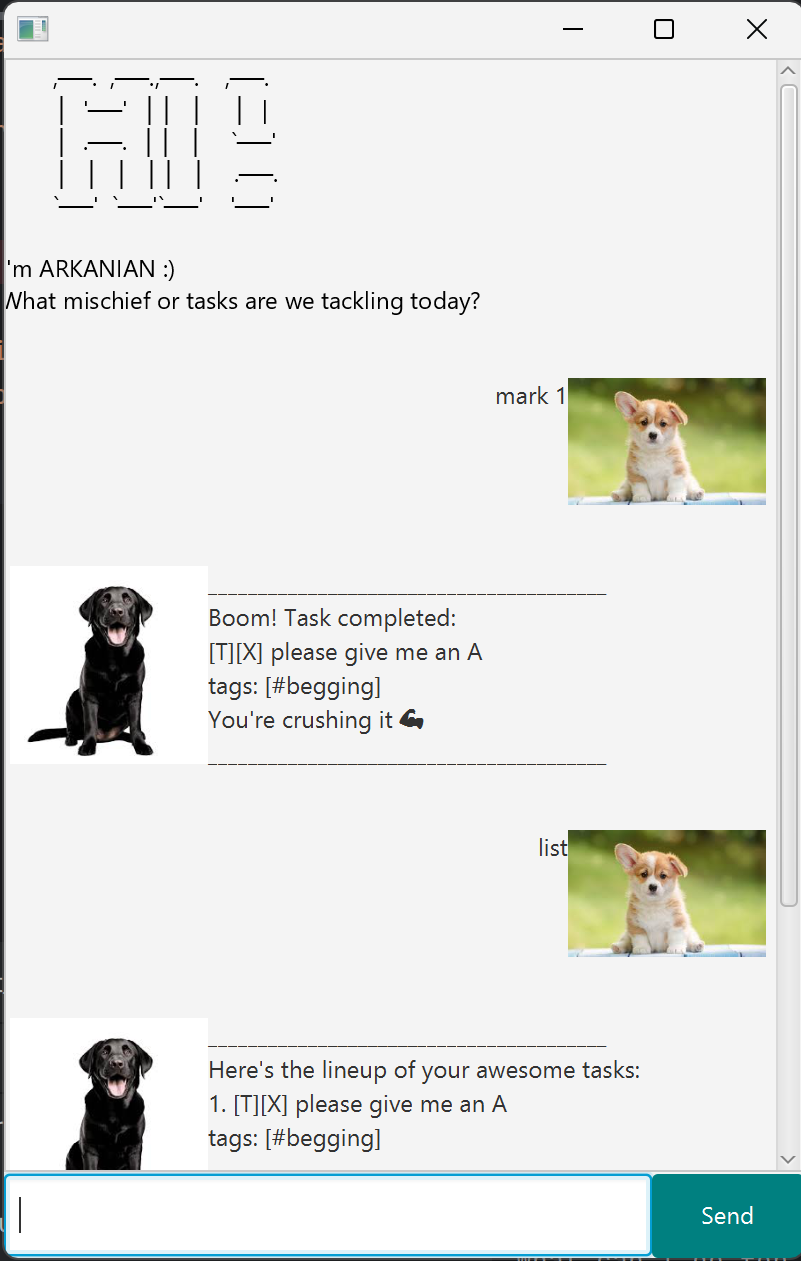
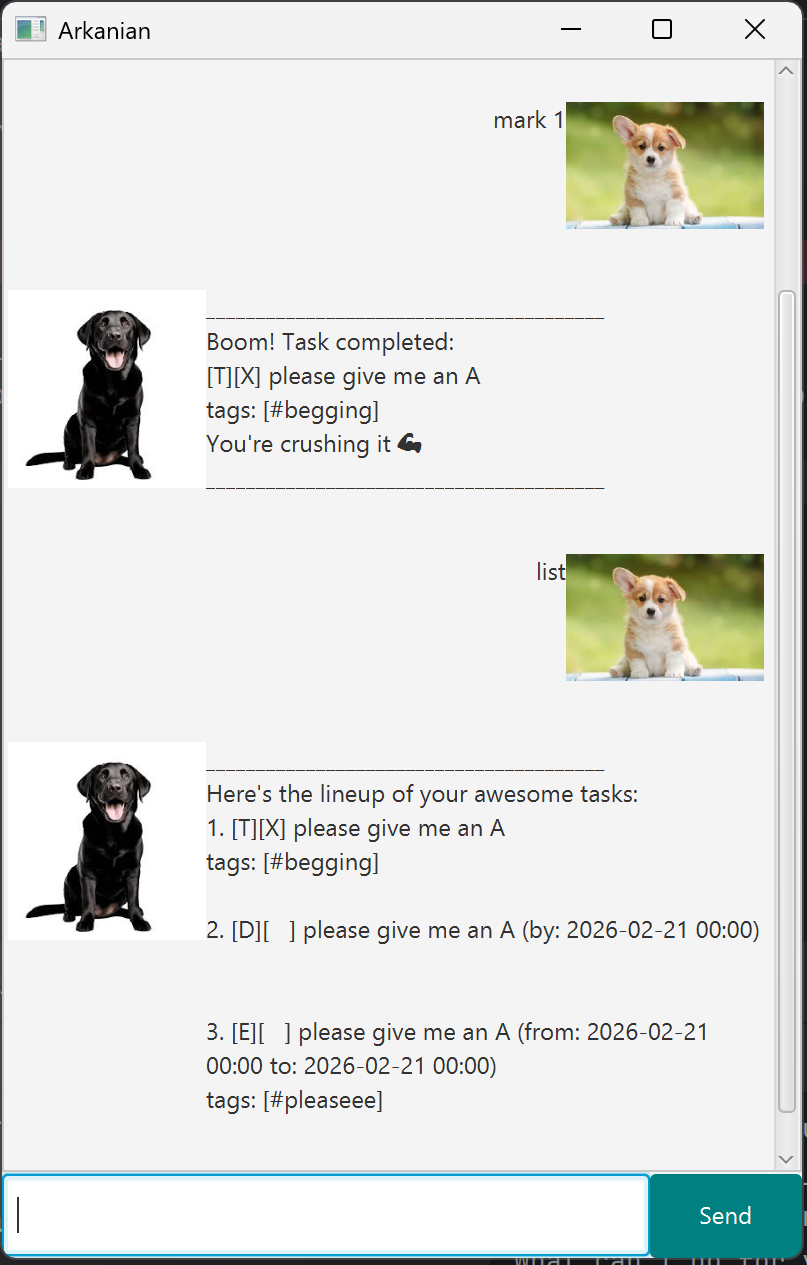
bug fix: Fix formatting of user guide

diff --git a/src/main/java/arkanian/gui/Main.java b/src/main/java/arkanian/gui/Main.java
@@ -22,6 +22,7 @@ public class Main extends Application {
             FXMLLoader fxmlLoader = new FXMLLoader(Main.class.getResource("/view/MainWindow.fxml"));
             AnchorPane ap = fxmlLoader.load();
             Scene scene = new Scene(ap);
+            stage.setTitle("Arkanian");
             stage.setScene(scene);
             fxmlLoader.<MainWindow>getController().setArkanian(arkanian);
             stage.show();

diff --git a/docs/README.md b/docs/README.md
@@ -43,13 +43,14 @@ Display all tasks currently stored in Arkanian.
 > 1. [T][ ] read book
 > 2. [D][X] submit report (by: 2026-03-10)
 > ________________________________________
+<br>
 ### Expected Output (when no tasks exist)
 > ________________________________________
 > Empty, bruv. Nothing to do yet! 💤
 > ________________________________________
 <br>
 
-## Adding a ToDo
+## Add a ToDo
 ### Goal
 
 Add a simple task without any date or time.
@@ -79,18 +80,18 @@ Add a task with a deadline.
 
 `deadline <DESCRIPTION> /by <DATE>`
 
-<DATE> must follow the format supported by the system (e.g. YYYY-MM-DD or YYYY-MM-DD HH:MM).
+DATE must follow the format supported by the system (e.g. YYYY-MM-DD or YYYY-MM-DD HH:MM).
 
 ### Example
 
 `deadline submit assignment /by 2026-03-15`
 
 ### Expected Output
-________________________________________
-Sweet! Added this gem:
-[D][ ] submit assignment (by: 2026-03-15)
-You're juggling 2 tasks now. Legendary! 🌟
-________________________________________
+> ________________________________________
+> Sweet! Added this gem:
+> [D][ ] submit assignment (by: 2026-03-15)
+> You're juggling 2 tasks now. Legendary! 🌟
+> ________________________________________
 <br>
 
 ## Adding an Event
@@ -123,7 +124,7 @@ Mark a task as completed.
 
 `mark <INDEX>`
 
-<INDEX> refers to the task number shown in the list command.
+INDEX refers to the task number shown in the list command.
 
 ### Example
 
